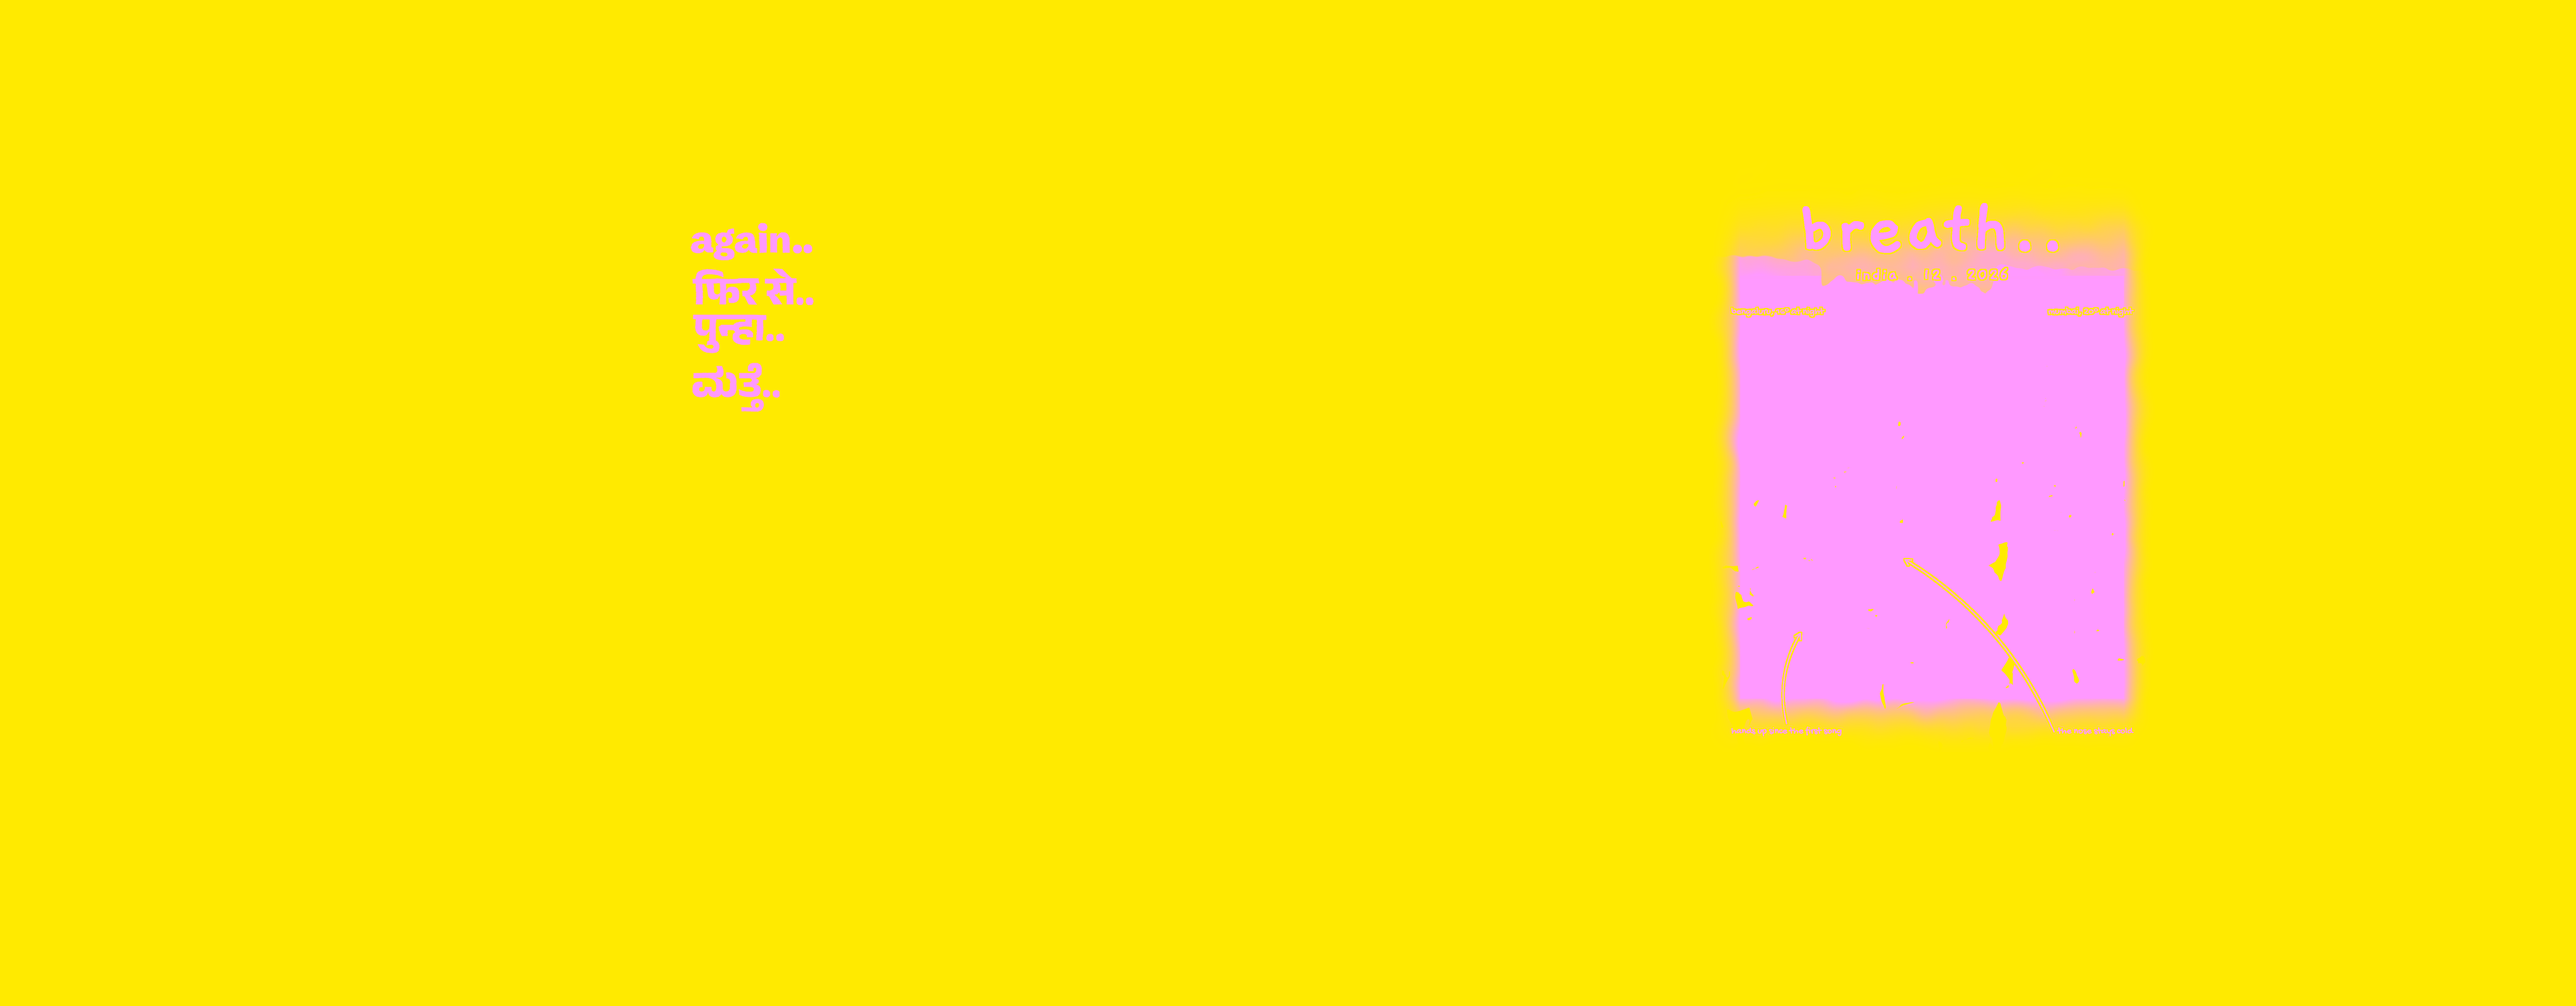
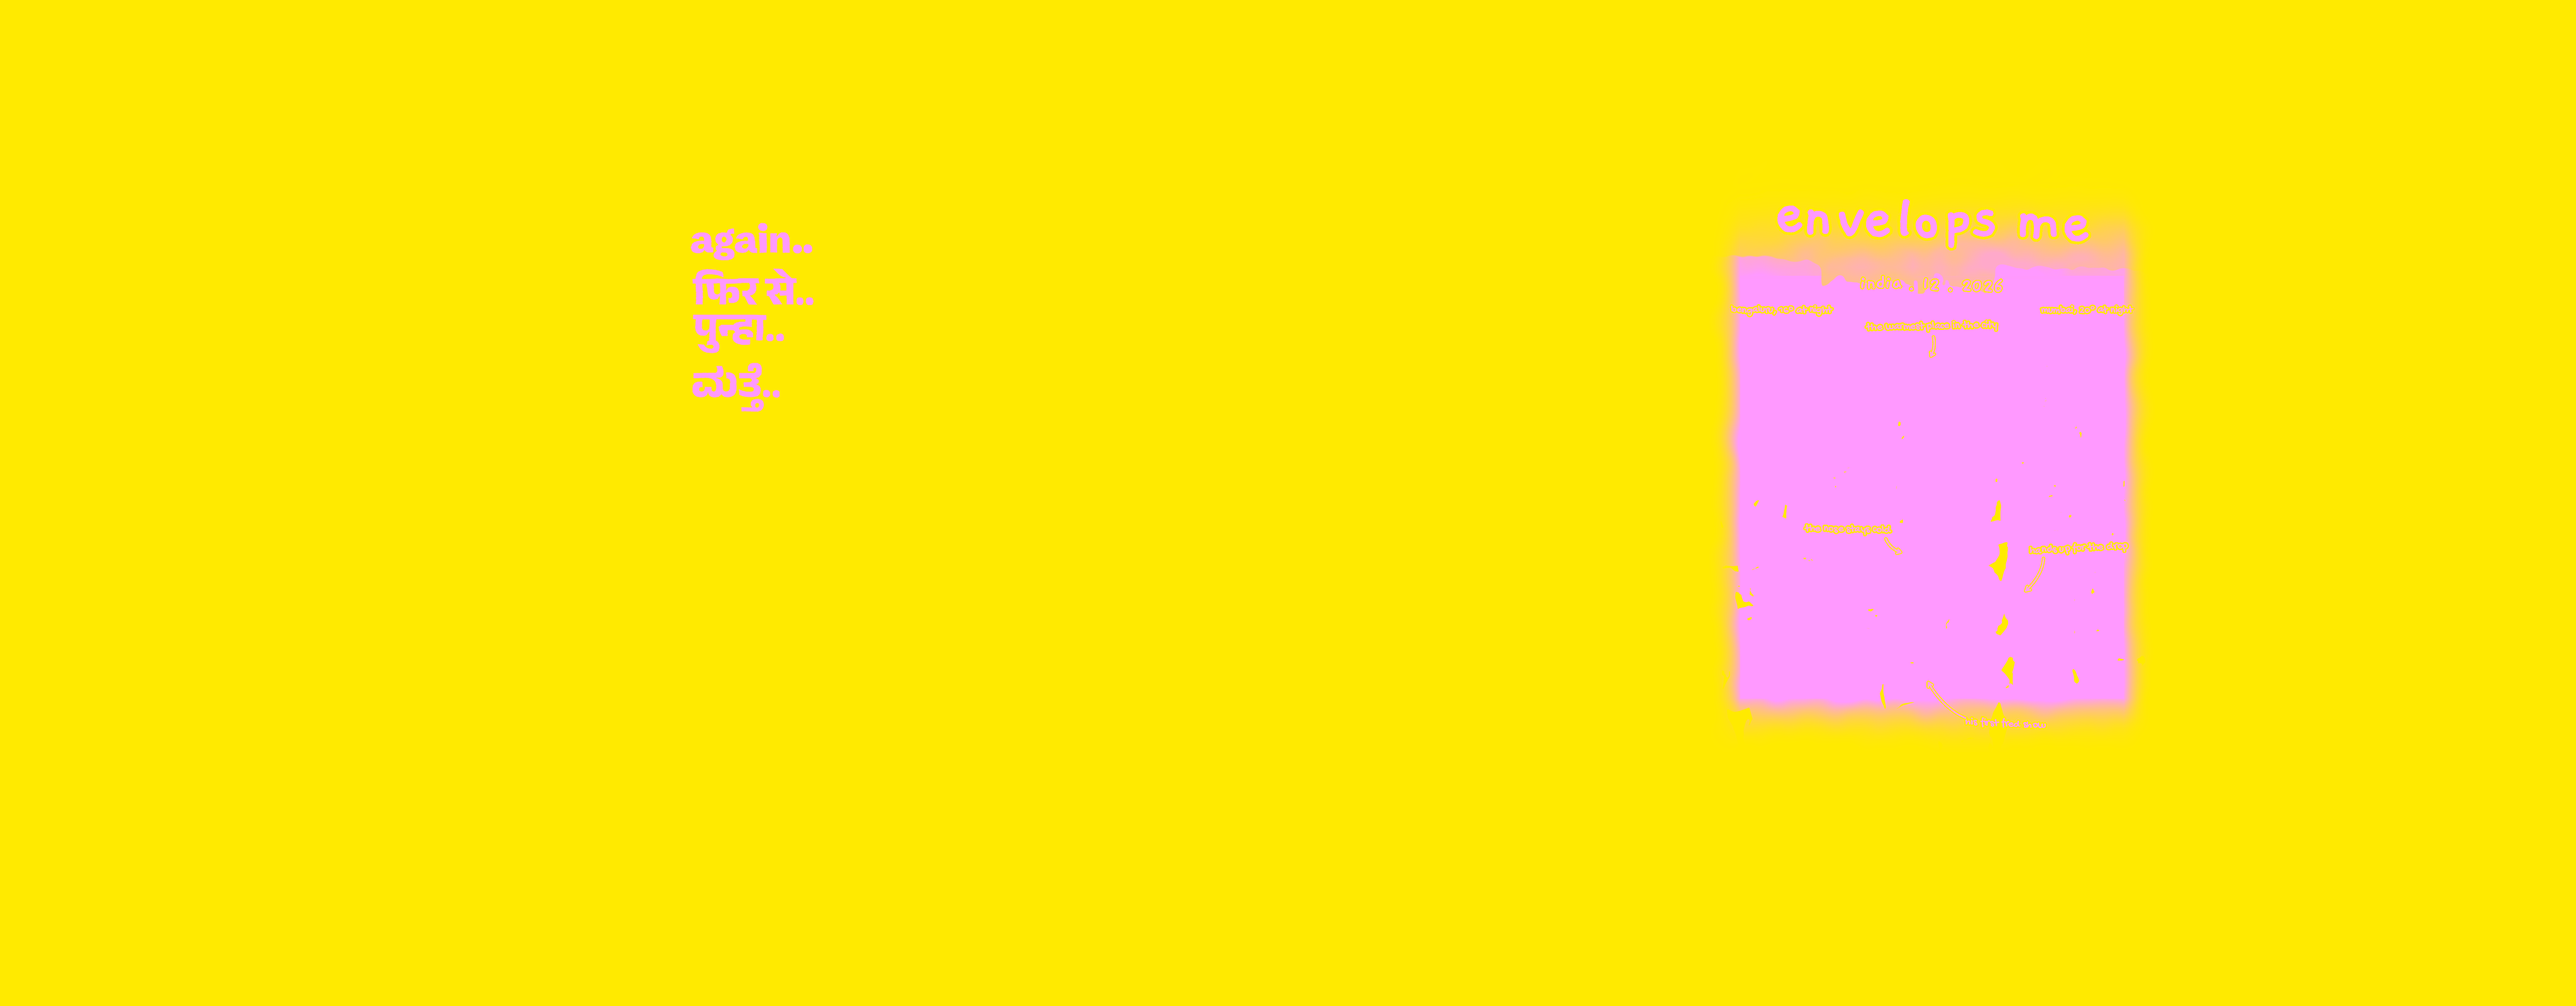
0.16.0: 02 is envelops me, after a Fred again.. song title, as Still Breathing is. Same heat picture, lettered again in the Figma file (Gaegu title with its dark edge between the two earlier tries, the date's thinner; Gochi notes): bengaluru 16° and mumbai 20° at night where they were, the warmest p

diff --git a/src/content/tee.ts b/src/content/tee.ts
@@ -8,12 +8,12 @@ export type City = "mumbai" | "bengaluru";
 
 /**
  * Four shirts. Same blank, same front (again.. in four scripts); the back is what changes.
- * The tour has two (the crowd, both cities in one drawing, and breath); each city has its map.
+ * The tour has two (the crowd, both cities in one drawing, and envelops me); each city has its map.
  * Each shirt comes in one colour only: a night shirt in black, a day shirt in off white.
  */
 export const DESIGNS: Record<Design, { no: string; name: string; city: City | null; colour: Colour; back: string }> = {
   c: { no: "01", name: "crowd", city: null, colour: "black", back: "both nights in one drawing: the crowd from behind, the green line stopping at Madavara on one side, the Mumbai skyline behind the race course on the other, people from both cities in front" },
-  e: { no: "02", name: "breath", city: null, colour: "black", back: "both nights through a heat camera: the crowd from the stage, hands up, every breath rising into the December air, 16° in Bengaluru, 20° in Mumbai" },
+  e: { no: "02", name: "envelops me", city: null, colour: "black", back: "both nights through a heat camera: the crowd from the stage, hands up for the drop, every breath rising into the December air, the warmest place in the city, 16° in Bengaluru, 20° in Mumbai" },
   a: { no: "03", name: "map", city: "mumbai", colour: "cream", back: "the race course from above, the sea beside it, the sound rolling out from the stage" },
   d: { no: "04", name: "map", city: "bengaluru", colour: "cream", back: "the NICE grounds from above, every person in the crowd drawn, friends holding hands; the last train in at Madavara, Tumakuru Road jammed, the sound rolling out over the village to the lake" },
 };

diff --git a/pipeline/texture.py b/pipeline/texture.py
@@ -85,7 +85,9 @@ if __name__ == "__main__":
         back.alpha_composite(Image.open(f"{OV}/ov-back-{tee}.png").convert("RGBA"))
     else:
         back = Image.open(f"{ROOT}/{art}/art-{tee}.png").convert("RGBA")
-        back.alpha_composite(Image.open(f"{OV}/ov-back-{'T' if design == 'C' else design}-{tee}-hi.png").convert("RGBA"))
+        # lettering exported from Figma at 3600 x 4800; art drawn at another size is met at the art's size
+        ov = Image.open(f"{OV}/ov-back-{'T' if design == 'C' else design}-{tee}-hi.png").convert("RGBA")
+        back.alpha_composite(ov if ov.size == back.size else ov.resize(back.size, Image.LANCZOS))
         back = back.resize((1524, 2032), Image.BOX)
     # back: the whole printable area. The blank takes up to 16 x 20 in; the art is 3:4, so it fills the height:
     # 15 x 20 in (38.1 x 50.8 cm), its top 9.5 cm under the high shoulder point (just clear of the collar rib)

diff --git a/pipeline/art/breath/letter.py b/pipeline/art/breath/letter.py
@@ -9,7 +9,9 @@ from PIL import Image, ImageDraw, ImageFont
 
 HERE = os.path.dirname(os.path.abspath(__file__)); F = os.path.join(HERE, "..", "..", "fonts")
 NOTES = sys.argv[1] if len(sys.argv) > 1 else os.path.join(HERE, "notes.json")
-OUT = sys.argv[2] if len(sys.argv) > 2 else os.path.join(HERE, "..", "..", "overlays", "ov-back-E-black-hi.png")
+# The shipped lettering (envelops me, 0.16.0) is drawn in the Figma file and exported to overlays/ov-back-E-black-hi.png;
+# this sketch writes beside it, never over it
+OUT = sys.argv[2] if len(sys.argv) > 2 else os.path.join(HERE, "..", "..", "overlays", "ov-back-E-black-sketch.png")
 W, H = 4500, 6000                     # 15 x 20 in at 300 dpi: 11.8 px a millimetre
 SS = 2                                # drawn at twice the size, then area-averaged: clean edges, one pixel of antialias
 INK = (241, 231, 208, 255)            # the tour crowd's cream

diff --git a/CHANGELOG.md b/CHANGELOG.md
@@ -2,6 +2,14 @@
 
 Versions follow [SemVer](https://semver.org): MAJOR for a new site or pipeline structure, MINOR for a new garment, colourway, size or studio feature, PATCH for fixes to renders, numbers or copy. Every release is a git tag `vX.Y.Z` with its renders attached to the GitHub release.
 
+## 0.16.0 — 2026-11-25
+02 is called envelops me now, after a Fred again.. song, the way Still Breathing is.
+
+### Shirts
+- Its back is lettered again over the same heat picture: envelops me / india . 12 . 2026 in the crowd's hand, the title's dark edge between the two earlier tries, the date's thinner.
+- The notes: bengaluru, 16° at night and mumbai, 20° at night where they were; the warmest place in the city over the crowd; the nose stays cold with a small arrow; hands up for the drop; his first fred show.
+- New try-on textures and prints to match.
+
 ## 0.15.0 — 2026-11-25
 Breath belongs to the whole tour now.
 
